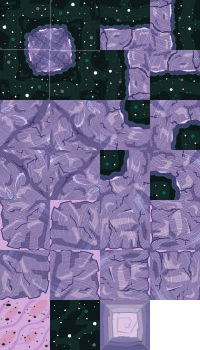
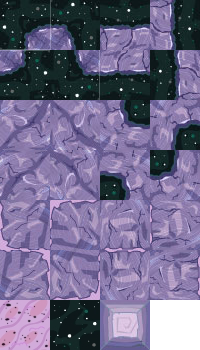
SBZBuilder : started work on map importer (only imports tile data, and only supports dungeon lvl1 tiles), added dungeon lvl1 tileset, broke editing feature, found more bugs with map converter

diff --git a/utils/SBZBuilder/scripts/sbzbuilder/MyGame.js b/utils/SBZBuilder/scripts/sbzbuilder/MyGame.js
@@ -12,6 +12,7 @@ Game.prototype.init = function(mainCanvas) {
 	this.assets.loadAssetLib("UI");
 	this.assets.loadAssetLib("tiles");
 	this.assets.loadAssetLib("cfg");
+	this.assets.loadAssetLib("maps");
 	console.log("SBZBuilder Init!");
 	//viewports...
 	this.viewPortMap = {
@@ -48,11 +49,14 @@ Game.prototype.tick = function(){
 			this.UISkin = this.assets.requestAssetFromLib("UI","skin","appSkin","image");
 			this.cursor = this.assets.requestAssetFromLib("cursor","cur",this.editMode,"image");
 			var btnsCfg = this.assets.requestAssetFromLib("cfg","config","btns_cfg","txt");
+			var mapTest = JSON.parse(this.assets.requestAssetFromLib("maps","maps","map0","txt"));
 			btnsCfg = JSON.parse(btnsCfg).btns_tile;
+			//console.log(mapTest.tileData[0].toString().split(".").join(" , "));
 			for (var i=0; i < 4; i++) {
 				this.tileBank.push(this.assets.requestAssetFromLib("tiles","testTiles","testTile" + i,"image"));
 			}
 			var tDat = JSON.parse(this.assets.requestAssetFromLib("tiles","testTiles","testTiles_dat","txt"));
+			var tDatD1 = JSON.parse(this.assets.requestAssetFromLib("tiles","tiles","dungeon1Tiles_dat","txt"));
 			//console.log(this.tileBG.src);
 			var maxX = (36 * 50) - ((8 * 50) - 0);
 			var maxY = (36 * 50) - ((5 * 50) - 10);
@@ -62,7 +66,7 @@ Game.prototype.tick = function(){
 			this.grid = new BGGrid(this,this.viewPortMap,2,2,600,300,this.UIBG,gridSettings);
 			this.tileGrid = new BGGrid(this,this.viewPortMap,36,36,50,50,false,tileGridSettings);
 			this.menuGrid = new BGGrid(this,this.viewPortMenu,2,Math.ceil(btnsCfg.length/2),50,50,false,menuGridSettings);
-			for (var ix=0; ix < this.tileGrid.tiles.length; ix++) {
+			/*for (var ix=0; ix < this.tileGrid.tiles.length; ix++) {
 				for (var iy=0; iy < this.tileGrid.tiles[ix].length; iy++) {
 					var r = Math.floor(Math.random() * 8);
 					//console.log(r);
@@ -71,6 +75,33 @@ Game.prototype.tick = function(){
 						var tType = "testTile" + (r-4);
 						this.tileGrid.tiles[ix][iy] = new Tile(this,ix,iy,50,50,tDat,tType);
 					}
+				}
+			}*/
+			var ic2 = 0;
+			for (var iy=0; iy < this.tileGrid.rows; iy++) {
+				for (var ix=0; ix < this.tileGrid.cols; ix++) {
+					if (ic2 >= mapTest.tileData.length) break;
+					var curr = mapTest.tileData[ic2].toString();
+					var curr2 = curr.split(".");
+					var t = curr2[0];
+					var m = 0;
+					if (curr2.length >= 2) {
+						m = Number(curr2[1]);
+						//console.log("m orig : " + m);
+						if (m >= 4) m -= 4;
+						//console.log("m new : " + m);
+					}
+					for (var i3 = 0; i3 < mapTest.assetLexicon.length; i3++) {
+						if (mapTest.assetLexicon[i3].id == t) {
+							t = mapTest.assetLexicon[i3].l;
+							break;
+						}
+					}
+					if (t != "BLANK_TILE") {
+						this.tileGrid.tiles[ix][iy] = new Tile(this,ix,iy,50,50,tDatD1,t);
+						this.tileGrid.tiles[ix][iy].setMeta(m);
+					}
+					ic2++;
 				}
 			}
 			this.tileDat = tDat;

diff --git a/utils/SBZBuilder/scripts/sbzbuilder/Tile.js b/utils/SBZBuilder/scripts/sbzbuilder/Tile.js
@@ -6,6 +6,7 @@ var Tile = function(parent,x,y,w,h,dat,type) {
 	this.height = h;
 	this.subTypes = [];
 	//console.log(type);
+	//console.log(JSON.stringify(dat));
 	var r = dat.regions[dat.tiles[type].r];
 	var tempWidth = dat.dims.w;
 	var tempHeight = dat.dims.h;
@@ -24,7 +25,8 @@ var Tile = function(parent,x,y,w,h,dat,type) {
 	this.currSub = this.subTypes[0];
 	this.meta = 0;
 	//console.log(type + " | " + tempX + " , " + tempY + "   " + JSON.stringify(this.subTypes));
-	this.img = this.parent.assets.requestAssetFromLib("tiles","testTiles",dat.img,"image");
+	this.img = this.parent.assets.requestAssetFromLib("tiles",dat.g,dat.img,"image");
+	//console.log(this.img.src);
 }
 Tile.prototype.draw = function(x,y) {
 	//this.parent.renderer.ctx.drawImage(this.img,x,y);
@@ -44,6 +46,7 @@ Tile.prototype.setMeta = function(m) {
 	var tM = m;
 	if (tM >= this.subTypes.length) tM = 0;
 	this.meta = tM;
+	//console.log(tM);
 	this.currSub = this.subTypes[this.meta];
 }
 Tile.prototype.flip = function(mode){

diff --git a/utils/Map_Converter/SBLK_MAP_3.js b/utils/Map_Converter/SBLK_MAP_3.js
@@ -23,9 +23,9 @@ var matrixLookup = [
 {"ma":null,"mb":null,"mc":null,"md":null,"name": 0},
 {"ma":1,"mb":0,"mc":0,"md":1,"name": 0},
 {"ma":1,"mb":-1,"mc":1,"md":1,"name": 0},
-{"ma":1, "mb":1, "mc":-1, "md":1, "name":"1"},
-{"ma":-1, "mb":1, "mc":-1, "md":-1, "name":"2"},
-{"ma":-1, "mb":-1, "mc":1, "md":1, "name":"3"},
+{"ma":1, "mb":1, "mc":-1, "md":1, "name": 1},
+{"ma":-1, "mb":1, "mc":-1, "md":-1, "name": 2},
+{"ma":-1, "mb":-1, "mc":1, "md":1, "name": 3},
 {"ma":-1,"mb":0,"mc":0,"md":1,"name": 4},
 {"ma":-1,"mb":1,"mc":1,"md":1,"name": 4},
 {"ma":-1,"mb":-1,"mc":-1,"md":1,"name": 5},
